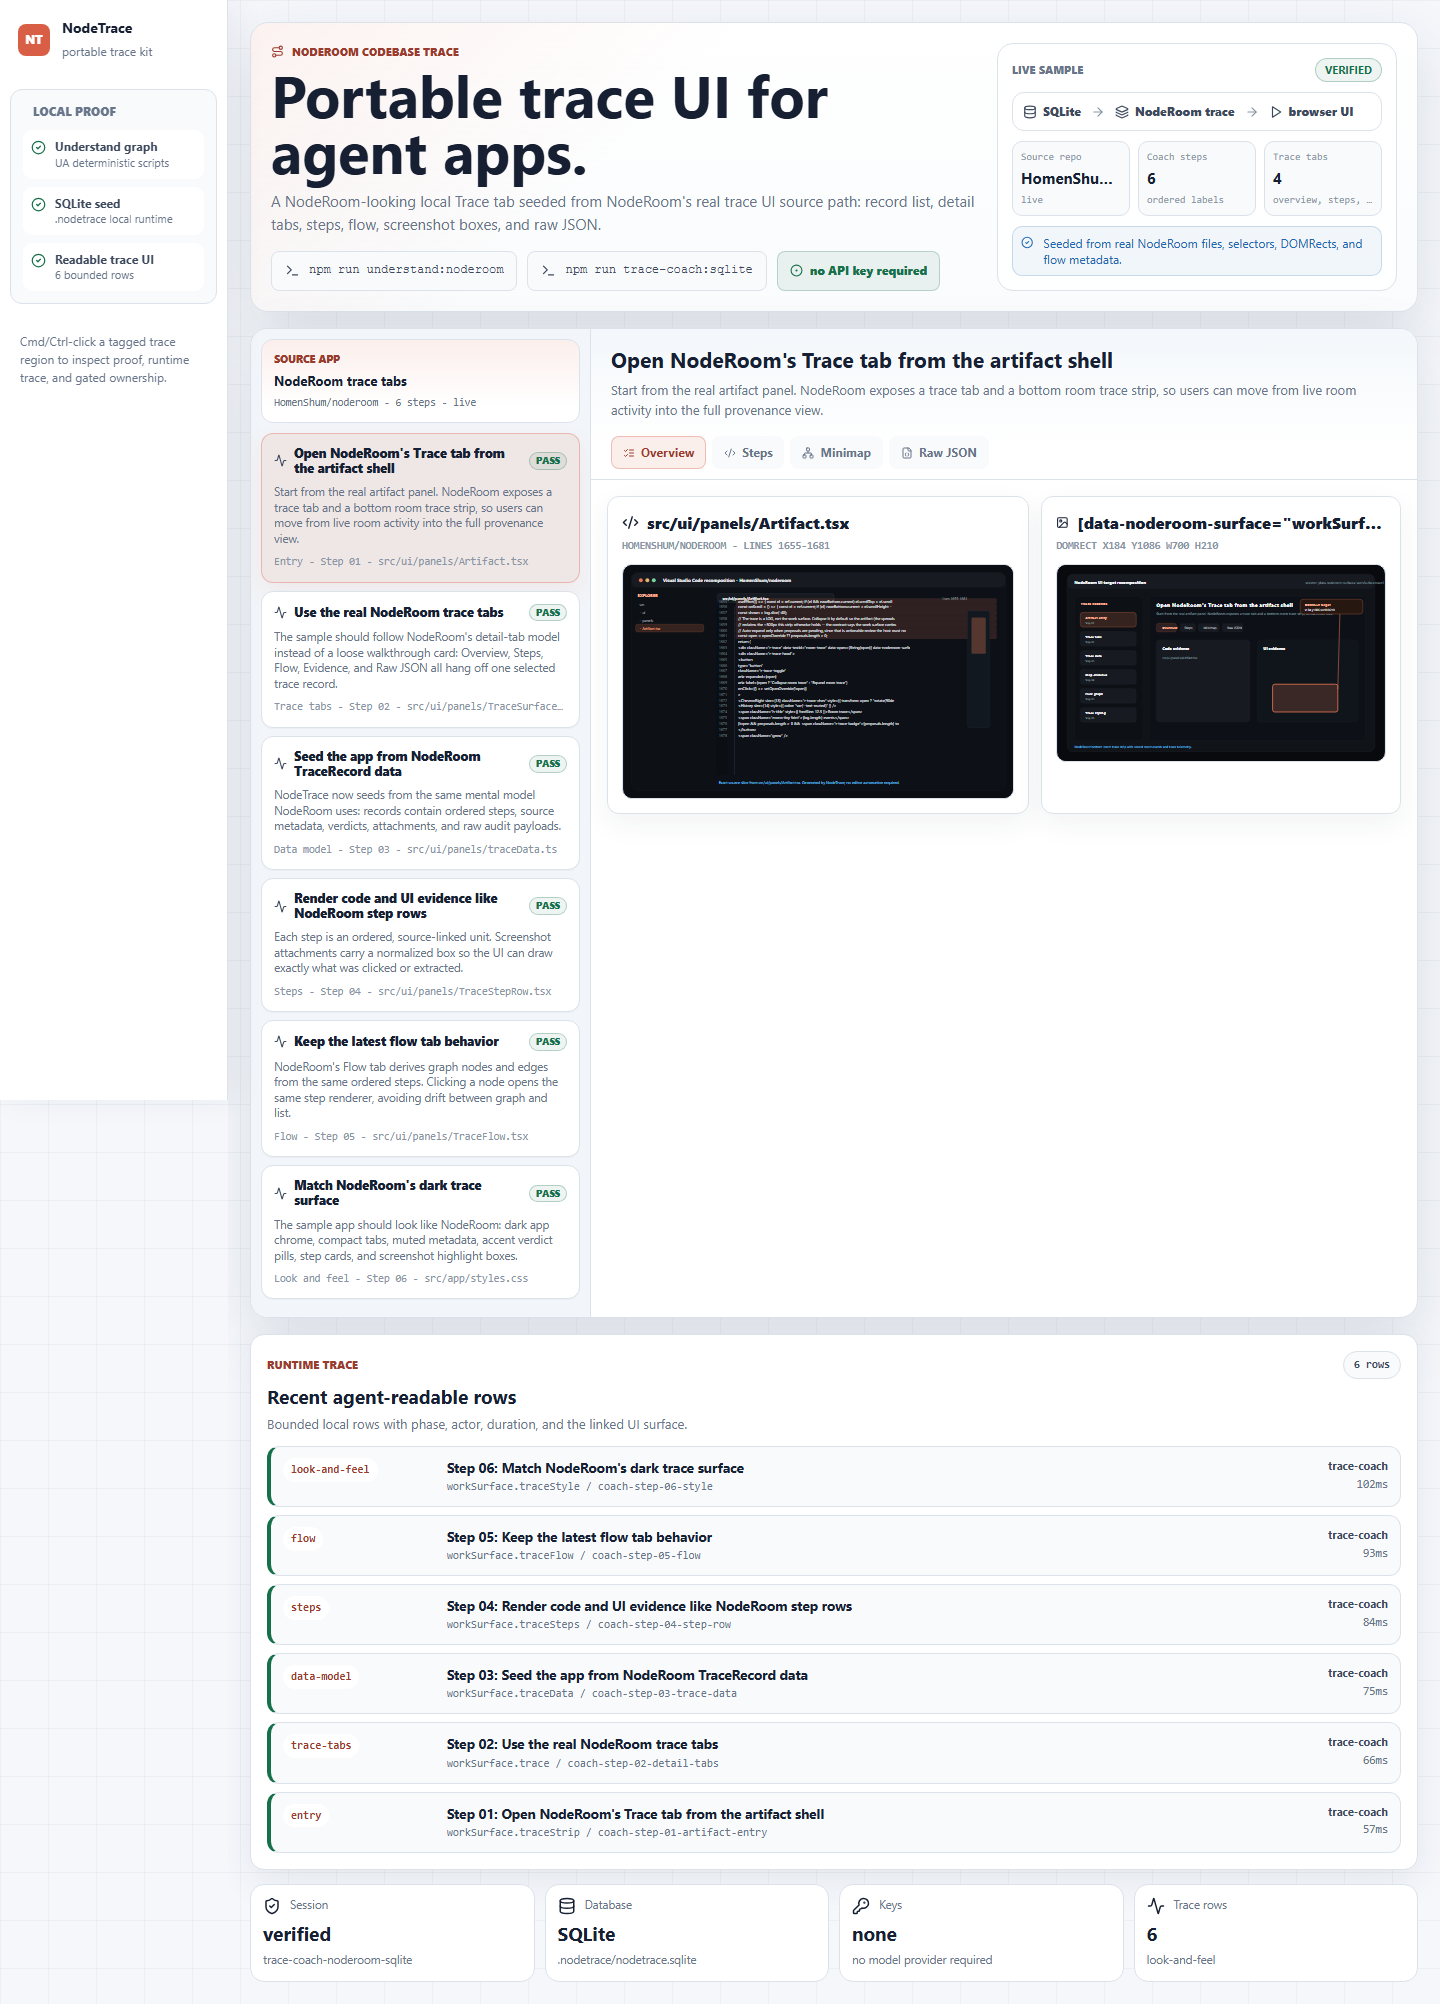
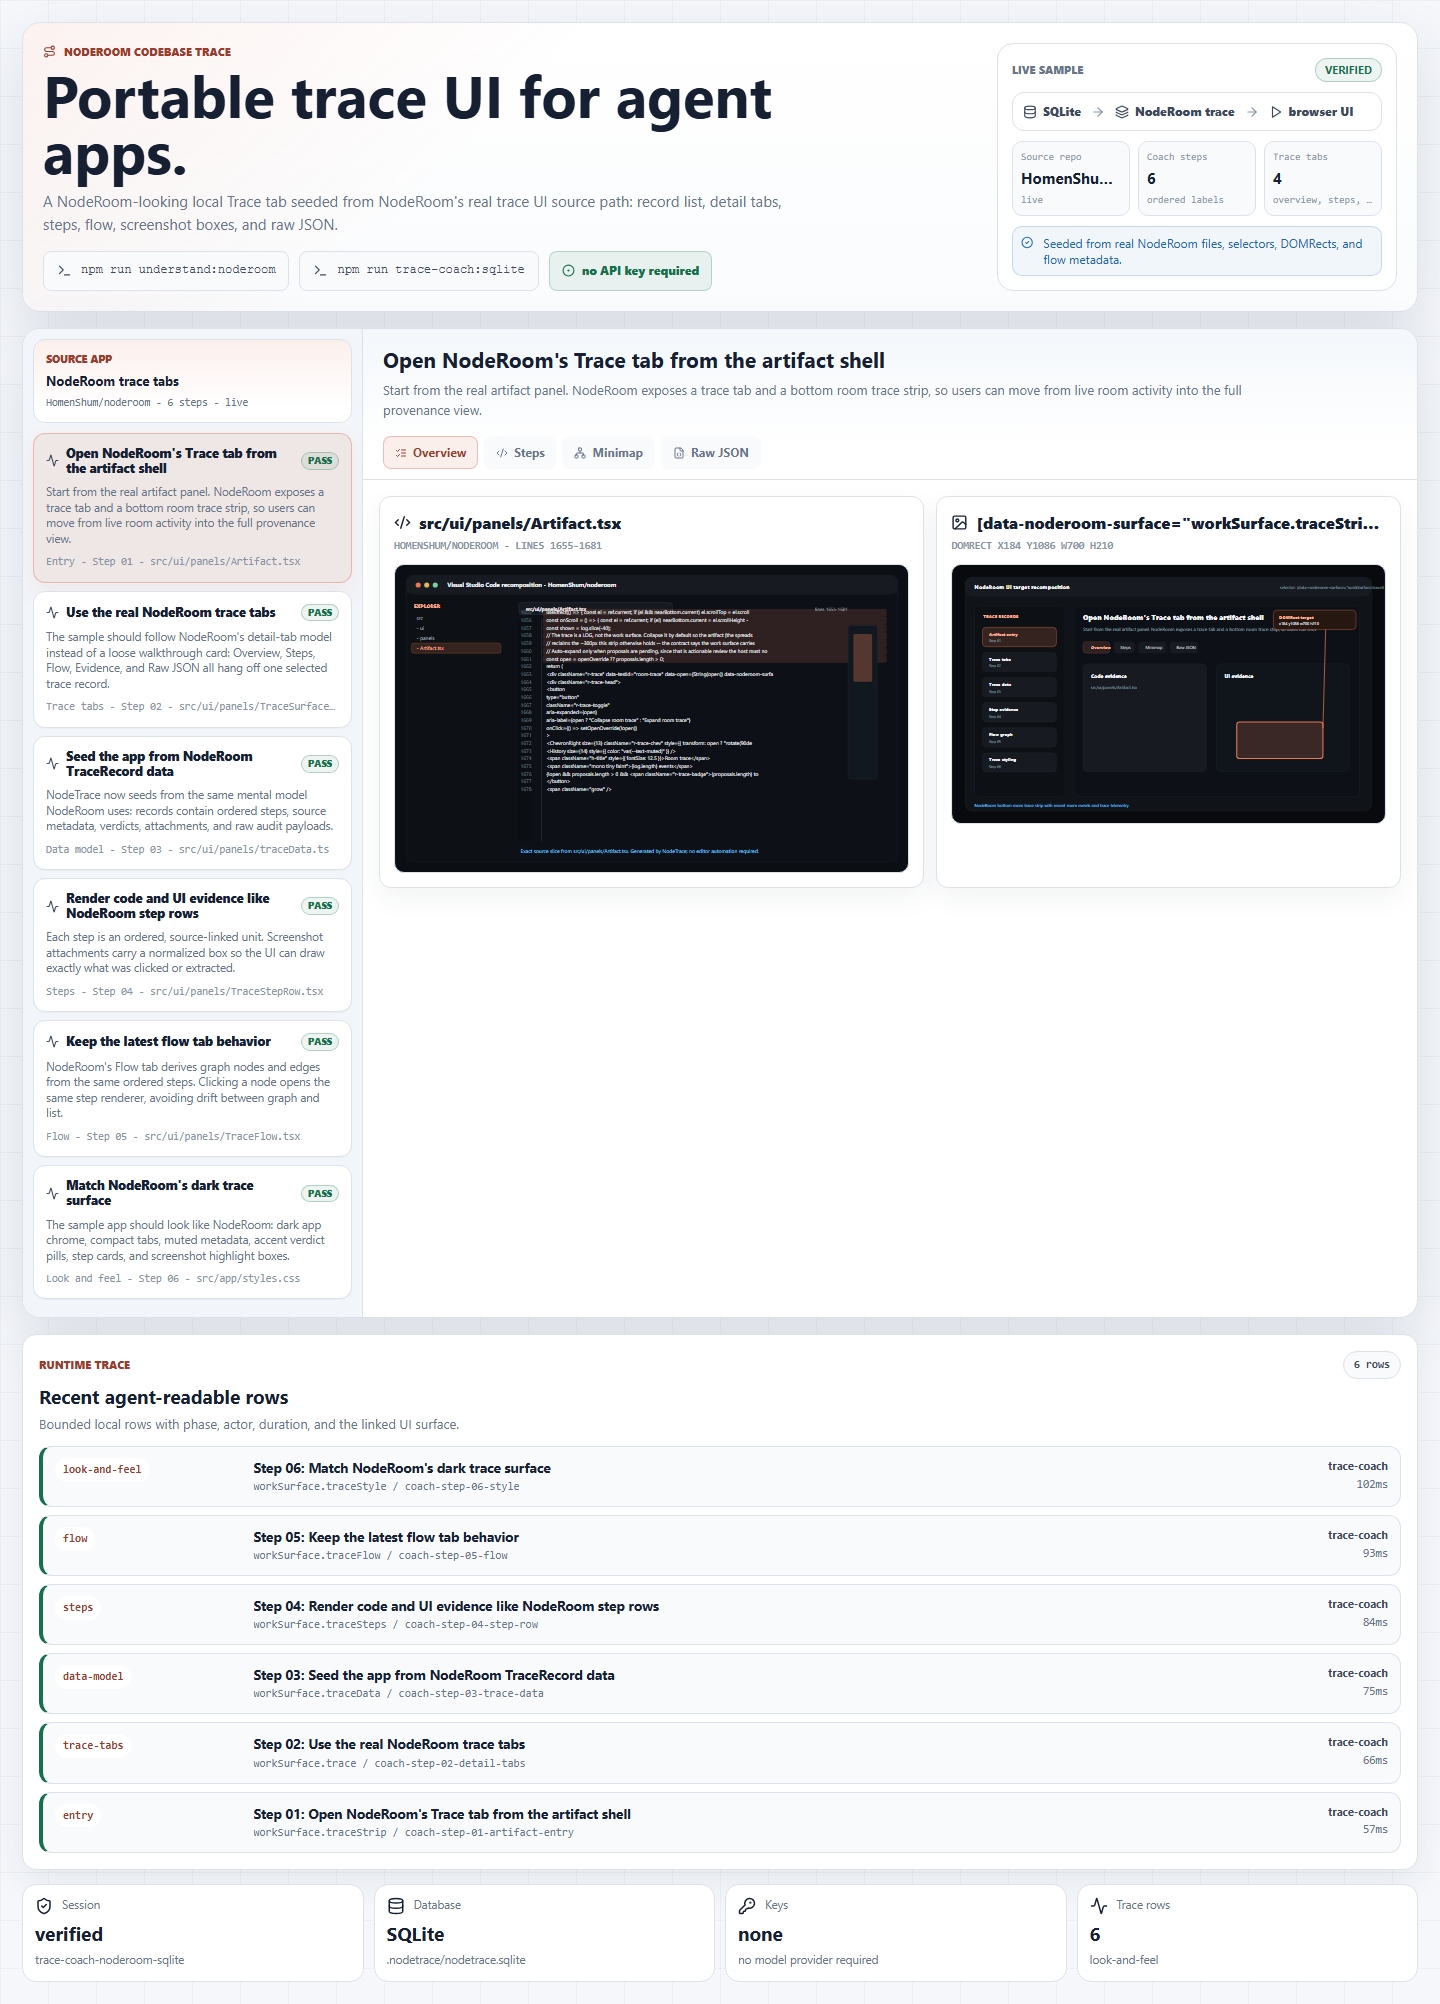
Remove static Trace Coach sidebar

diff --git a/src/styles.css b/src/styles.css
@@ -50,102 +50,7 @@ button {
 }
 
 .shell {
-  display: grid;
-  grid-template-columns: 228px minmax(0, 1fr);
   min-height: 100vh;
-}
-
-.rail {
-  position: sticky;
-  top: 0;
-  display: flex;
-  flex-direction: column;
-  gap: 28px;
-  height: 100vh;
-  padding: 18px 10px;
-  border-right: 1px solid var(--line);
-  background: rgba(255, 255, 255, 0.92);
-  color: var(--text-primary);
-  box-shadow: 8px 0 30px rgba(40, 54, 76, 0.06);
-}
-
-.brand {
-  display: flex;
-  align-items: center;
-  gap: 12px;
-  padding: 0 8px;
-}
-
-.mark {
-  display: grid;
-  width: 32px;
-  height: 32px;
-  place-items: center;
-  border-radius: 8px;
-  background: var(--accent-primary);
-  color: #ffffff;
-  font-size: 12px;
-  font-weight: 900;
-}
-
-.brand strong {
-  display: block;
-  font-size: 14px;
-}
-
-.brand span,
-.rail p {
-  color: var(--text-muted);
-  font-size: 12px;
-}
-
-.rail p {
-  margin: 0 10px;
-  line-height: 1.5;
-}
-
-.railProof {
-  display: grid;
-  gap: 8px;
-  border: 1px solid var(--line);
-  border-radius: 12px;
-  padding: 12px;
-  background: var(--bg-secondary);
-}
-
-.railProof .eyebrow {
-  margin-bottom: 2px;
-}
-
-.railProofStep {
-  display: flex;
-  align-items: flex-start;
-  gap: 9px;
-  border-radius: 9px;
-  padding: 8px;
-  background: var(--bg-primary);
-  color: var(--text-secondary);
-}
-
-.railProofStep svg {
-  flex: none;
-  margin-top: 2px;
-  color: var(--success-ink);
-}
-
-.railProofStep strong,
-.railProofStep small {
-  display: block;
-}
-
-.railProofStep strong {
-  font-size: 12px;
-}
-
-.railProofStep small {
-  color: var(--text-muted);
-  font-size: 11px;
-  line-height: 1.35;
 }
 
 .workspace {
@@ -1024,12 +929,7 @@ button {
 }
 
 @media (max-width: 760px) {
-  .shell {
-    grid-template-columns: 1fr;
-  }
-
-  .workspace,
-  .rail {
+  .workspace {
     padding: 12px;
   }
 

diff --git a/src/DemoDashboard.tsx b/src/DemoDashboard.tsx
@@ -55,38 +55,9 @@ export function DemoDashboard() {
     ],
     [coach],
   );
-  const proofSteps = [
-    { label: "Understand graph", detail: "UA deterministic scripts", done: Boolean(coach) },
-    { label: "SQLite seed", detail: ".nodetrace local runtime", done: state.session.status === "verified" },
-    { label: "Readable trace UI", detail: `${state.traces.length} bounded rows`, done: state.traces.length > 0 },
-  ];
-
   return (
     <TraceLensProvider builderCapable={state.builderCapable}>
       <main className="shell">
-        <aside className="rail">
-          <div className="brand">
-            <div className="mark">NT</div>
-            <div>
-              <strong>NodeTrace</strong>
-              <span>portable trace kit</span>
-            </div>
-          </div>
-          <div className="railProof" aria-label="Local proof path">
-            <p className="eyebrow">Local proof</p>
-            {proofSteps.map((step) => (
-              <div key={step.label} className="railProofStep" data-done={String(step.done)}>
-                <CheckCircle2 size={15} aria-hidden="true" />
-                <span>
-                  <strong>{step.label}</strong>
-                  <small>{step.detail}</small>
-                </span>
-              </div>
-            ))}
-          </div>
-          <p>Cmd/Ctrl-click a tagged trace region to inspect proof, runtime trace, and gated ownership.</p>
-        </aside>
-
         <section className="workspace">
           <header className="showcase" data-nodetrace-surface="shell.statusStrip">
             <div className="showcaseCopy">